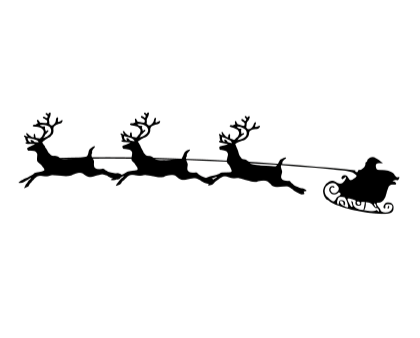
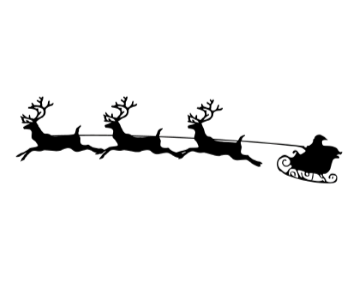
Add style to timer and moves div and add function structure

diff --git a/index.html b/index.html
@@ -20,7 +20,7 @@
             <img src="assets/images/h1.png" alt="Santa's Sleigh">
         </div>
     <div>
-        <h1 class="heading">Welcome to the Christmas Memory Game</h1>
+        <h1>Welcome to the Christmas Memory Game</h1>
     </div>
     <br>
     <!--Instructions on how to play the game-->
@@ -30,10 +30,11 @@
   </header>
   <br>
   <!--The time and number of moves in the game-->
-  <div class="stats">
-    <div class="moves">0 Moves</div>
-    <div class="timer">Time playing: 0 sec</div>
+  <div id="stats">
+    <div id="moves"><strong>Moves: 0</strong></div>
+    <div id="timer"><strong>Time playing: 0 sec</strong></div>
 </div>
+<br>
 <!--The game layout, images for both sides, each card in one separate div-->
     <section class="christmas-game">
         <div class="memory-card">

diff --git a/assets/css/style.css b/assets/css/style.css
@@ -20,6 +20,7 @@ body {
   }
   #image {
     margin-left: 30%;
+    width: 80%;
   }
   h1 {
     text-align: center;
@@ -32,7 +33,11 @@ body {
     color: #BB2528;
     font-family: Gaegu, cursive;
   }
-
+ /* time and moves area styling*/
+  #stats {
+    color: #165B33;
+    text-align: center;
+  }
   /* general css for game area*/
   .christmas-game {
     width: 640px;

diff --git a/assets/js/script.js b/assets/js/script.js
@@ -1,0 +1,18 @@
+// function to record the number of clicks and to flip the cards
+function flipCard() {
+
+}
+// function to keep cards flipped when a match is found
+function checkForMarch() {
+
+}
+// function to reset the board game
+function resetGame() {
+
+}
+
+// function to shuffle the cards
+ function suffleCards() {
+
+ }
+
